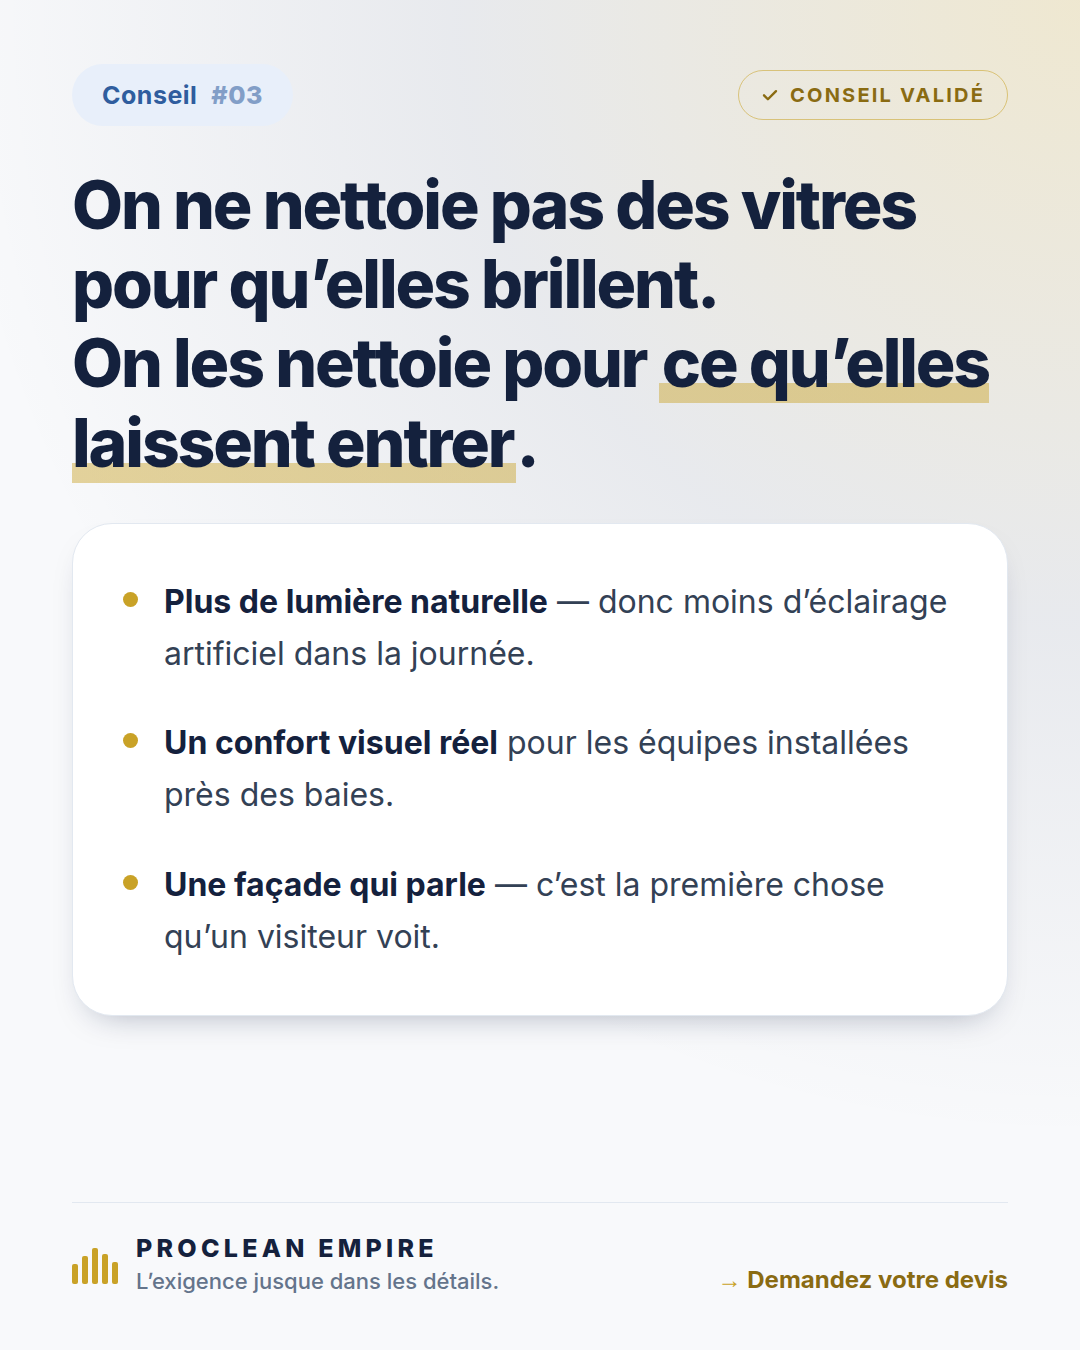
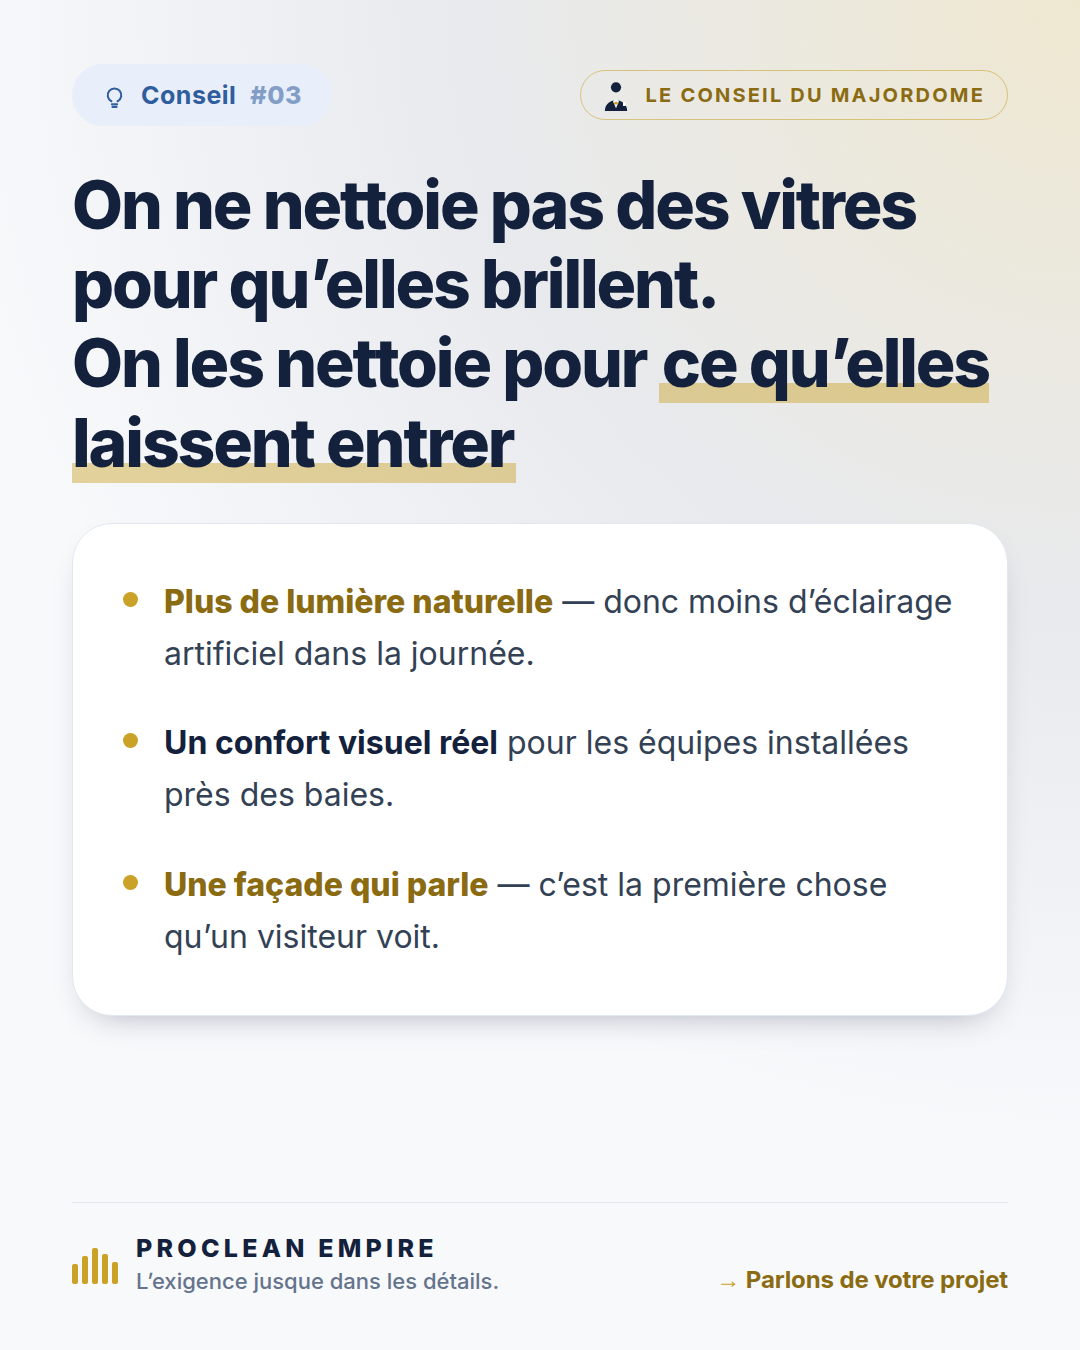
Sign the badge system and add the butler emblem
Badges carry an icon per collection and the seals now read as ProClean
wording rather than generic labels: Le conseil ProClean, Astuce ProClean,
Methode ProClean, Retour client verifie.

CTAs rotate across four wordings so posts stop ending identically, the
lead benefit of a list is set in gold, and display headlines drop their
closing period.

Adds a flat butler emblem - navy bust, white collar, gold bow tie, gloved
hand - drawn from the brand palette and used on the advice posts as
"Le conseil du Majordome".

Icons are tinted SVG rather than emoji so they inherit each collection's
colour instead of introducing unrelated hues.

Claude-Session: https://claude.ai/code/session_01Mxdu93gp3qUqySFn8KFPEm

diff --git a/docs/reseaux-sociaux/visuels/visuels.html b/docs/reseaux-sociaux/visuels/visuels.html
@@ -158,19 +158,57 @@
   #v10 .foot .name { color: #fff; }
   #v10 .foot .base { color: #94a3b8; }
   #v10 .foot .cta { color: var(--gold); }
+
+  .badge .ico { width: 25px; height: 25px; flex: 0 0 auto; }
+  .seal .ico { width: 19px; height: 19px; flex: 0 0 auto; }
+  .seal .butler { width: 34px; height: 34px; flex: 0 0 auto; color: var(--navy); margin: -6px 2px -6px -4px; }
+  .key, #v6 .row .tx b.key, .s p b.key { color: var(--gold-ink); font-weight: 800; }
+  .foot .cta { letter-spacing: -.005em; }
 </style>
 </head>
 <body>
+
+<svg width="0" height="0" style="position:absolute" aria-hidden="true"><defs>
+  <symbol id="i-bulb" viewBox="0 0 24 24" fill="none" stroke="currentColor" stroke-width="2" stroke-linecap="round" stroke-linejoin="round">
+    <path d="M9 17.5a6.5 6.5 0 1 1 6 0"/><path d="M9.5 20.5h5"/><path d="M10 23h4"/>
+  </symbol>
+  <symbol id="i-flask" viewBox="0 0 24 24" fill="none" stroke="currentColor" stroke-width="2" stroke-linecap="round" stroke-linejoin="round">
+    <path d="M9 2v6.5L3.6 18A2.2 2.2 0 0 0 5.5 21.4h13A2.2 2.2 0 0 0 20.4 18L15 8.5V2"/><path d="M7.5 2h9"/><path d="M6.6 14h10.8"/>
+  </symbol>
+  <symbol id="i-star" viewBox="0 0 24 24" fill="currentColor">
+    <path d="M12 2.4l2.9 5.9 6.5.9-4.7 4.6 1.1 6.5-5.8-3-5.8 3 1.1-6.5L2.6 9.2l6.5-.9z"/>
+  </symbol>
+  <symbol id="i-swap" viewBox="0 0 24 24" fill="none" stroke="currentColor" stroke-width="2" stroke-linecap="round" stroke-linejoin="round">
+    <path d="M3 8h14"/><path d="M13.5 4.5L17 8l-3.5 3.5"/><path d="M21 16H7"/><path d="M10.5 12.5L7 16l3.5 3.5"/>
+  </symbol>
+  <symbol id="i-pin" viewBox="0 0 24 24" fill="none" stroke="currentColor" stroke-width="2" stroke-linecap="round" stroke-linejoin="round">
+    <path d="M12 22s7-6.6 7-12A7 7 0 0 0 5 10c0 5.4 7 12 7 12z"/><circle cx="12" cy="10" r="2.6"/>
+  </symbol>
+  <symbol id="i-cam" viewBox="0 0 24 24" fill="none" stroke="currentColor" stroke-width="2" stroke-linecap="round" stroke-linejoin="round">
+    <path d="M3 8.5h11.5A2.5 2.5 0 0 1 17 11v6.5H5.5A2.5 2.5 0 0 1 3 15z"/><path d="M17 12.6l4-2.4v7l-4-2.4z"/>
+  </symbol>
+  <symbol id="i-check" viewBox="0 0 24 24" fill="none" stroke="currentColor" stroke-width="3.2" stroke-linecap="round" stroke-linejoin="round">
+    <path d="M4 12.5l5.2 5.2L20 6.9"/>
+  </symbol>
+
+  <!-- Le Majordome ProClean -->
+  <symbol id="butler" viewBox="0 0 64 64">
+    <circle cx="32" cy="17.5" r="9.6" fill="currentColor"/>
+    <path d="M11 62c0-11.6 9.4-20 21-20s21 8.4 21 20z" fill="currentColor"/>
+    <path d="M26.2 43.4L32 57l5.8-13.6-5.8-3.2z" fill="#ffffff"/>
+    <path d="M32 44.4l-5.1 2.9 5.1 2.9 5.1-2.9z" fill="#c9a227"/>
+    <path d="M45.2 47.6a2.6 2.6 0 1 1 5.2 0v5.2h-5.2z" fill="#ffffff"/>
+  </symbol>
+</defs></svg>
 
 <!-- ================= 1 · LUNDI 08h · CONSEIL 01 ================= -->
 <section class="card p" id="v1">
   <div class="glow"></div>
   <div class="stage">
     <div class="top">
-      <span class="badge conseil">Conseil <span class="num">#01</span></span>
-      <span class="seal"><svg width="18" height="18" viewBox="0 0 24 24" fill="none" stroke="#8a6b12" stroke-width="3.2" stroke-linecap="round" stroke-linejoin="round"><path d="M4 12.5l5.2 5.2L20 6.9"/></svg>Méthode ProClean</span>
-    </div>
-    <h1>Un bureau propre n&rsquo;est pas un détail.<br>C&rsquo;est un <span class="hl">levier</span>.</h1>
+      <span class="badge conseil"><svg class="ico"><use href="#i-bulb"/></svg>Conseil <span class="num">#01</span></span>
+      <span class="seal"><svg class="butler"><use href="#butler"/></svg>Le conseil ProClean</span></div>
+    <h1>Un bureau propre n&rsquo;est pas un détail.<br>C&rsquo;est un <span class="hl">levier</span></h1>
     <div class="panel shot">
       <img src="../../../../../home/user/https-procleanempire-multiservice.manus.space/public/media/photos/hero-showcase.jpg" alt="">
     </div>
@@ -180,7 +218,7 @@
         <svg class="mark" width="46" height="40" viewBox="0 0 46 40" fill="#c9a227"><rect x="0" y="20" width="6" height="20" rx="2"/><rect x="10" y="12" width="6" height="28" rx="2"/><rect x="20" y="4" width="6" height="36" rx="2"/><rect x="30" y="10" width="6" height="30" rx="2"/><rect x="40" y="18" width="6" height="22" rx="2"/></svg>
         <div><div class="name">PROCLEAN EMPIRE</div><div class="base">L&rsquo;exigence jusque dans les détails.</div></div>
       </div>
-      <span class="cta"><i>&rarr;</i> Demandez votre devis</span>
+      <span class="cta"><i>&rarr;</i> Parlons de votre projet</span>
     </div>
   </div>
 </section>
@@ -190,10 +228,9 @@
   <div class="glow"></div>
   <div class="stage">
     <div class="top">
-      <span class="badge preuve">Avant / Après <span class="num">#01</span></span>
-      <span class="seal"><svg width="18" height="18" viewBox="0 0 24 24" fill="none" stroke="#8a6b12" stroke-width="3.2" stroke-linecap="round" stroke-linejoin="round"><path d="M4 12.5l5.2 5.2L20 6.9"/></svg>Méthode ProClean</span>
-    </div>
-    <h1>Le remplacement était envisagé.<br>Il n&rsquo;a pas été nécessaire.</h1>
+      <span class="badge preuve"><svg class="ico"><use href="#i-swap"/></svg>Avant / Après <span class="num">#01</span></span>
+      <span class="seal"><svg class="ico"><use href="#i-check"/></svg>Méthode ProClean</span></div>
+    <h1>Le remplacement était envisagé.<br>Il n&rsquo;a pas été nécessaire</h1>
     <div class="panel shot">
       <div class="half">
         <img src="../../../../../home/user/https-procleanempire-multiservice.manus.space/public/media/photos/cuir-rouge-avant.jpeg" alt="">
@@ -219,9 +256,8 @@
   <div class="glow"></div>
   <div class="stage">
     <div class="top">
-      <span class="badge savoir">Le saviez-vous <span class="num">#01</span></span>
-      <span class="seal"><svg width="18" height="18" viewBox="0 0 24 24" fill="none" stroke="#8a6b12" stroke-width="3.2" stroke-linecap="round" stroke-linejoin="round"><path d="M4 12.5l5.2 5.2L20 6.9"/></svg>Méthode ProClean</span>
-    </div>
+      <span class="badge savoir"><svg class="ico"><use href="#i-flask"/></svg>Le saviez-vous <span class="num">#01</span></span>
+      <span class="seal"><svg class="ico"><use href="#i-check"/></svg>Astuce ProClean</span></div>
     <div class="panel">
       <h1>Le saviez-vous&nbsp;?</h1>
       <div class="dash"></div>
@@ -232,7 +268,7 @@
         <svg class="mark" width="46" height="40" viewBox="0 0 46 40" fill="#c9a227"><rect x="0" y="20" width="6" height="20" rx="2"/><rect x="10" y="12" width="6" height="28" rx="2"/><rect x="20" y="4" width="6" height="36" rx="2"/><rect x="30" y="10" width="6" height="30" rx="2"/><rect x="40" y="18" width="6" height="22" rx="2"/></svg>
         <div><div class="name">PROCLEAN EMPIRE</div><div class="base">L&rsquo;exigence jusque dans les détails.</div></div>
       </div>
-      <span class="cta"><i>&rarr;</i> Voir plus sur notre site</span>
+      <span class="cta"><i>&rarr;</i> Obtenez votre devis en 24 h</span>
     </div>
   </div>
 </section>
@@ -242,9 +278,8 @@
   <div class="glow"></div>
   <div class="stage">
     <div class="top">
-      <span class="badge conseil">Conseil <span class="num">#02</span></span>
-      <span class="seal"><svg width="18" height="18" viewBox="0 0 24 24" fill="none" stroke="#8a6b12" stroke-width="3.2" stroke-linecap="round" stroke-linejoin="round"><path d="M4 12.5l5.2 5.2L20 6.9"/></svg>Conseil validé</span>
-    </div>
+      <span class="badge conseil"><svg class="ico"><use href="#i-bulb"/></svg>Conseil <span class="num">#02</span></span>
+      <span class="seal"><svg class="butler"><use href="#butler"/></svg>Le conseil ProClean</span></div>
     <div class="panel">
       <div class="big">30<em>&nbsp;s</em></div>
       <div class="dash"></div>
@@ -255,7 +290,7 @@
         <svg class="mark" width="46" height="40" viewBox="0 0 46 40" fill="#c9a227"><rect x="0" y="20" width="6" height="20" rx="2"/><rect x="10" y="12" width="6" height="28" rx="2"/><rect x="20" y="4" width="6" height="36" rx="2"/><rect x="30" y="10" width="6" height="30" rx="2"/><rect x="40" y="18" width="6" height="22" rx="2"/></svg>
         <div><div class="name">PROCLEAN EMPIRE</div><div class="base">L&rsquo;exigence jusque dans les détails.</div></div>
       </div>
-      <span class="cta"><i>&rarr;</i> Voir plus sur notre site</span>
+      <span class="cta"><i>&rarr;</i> Contactez un expert ProClean</span>
     </div>
   </div>
 </section>
@@ -265,21 +300,20 @@
   <div class="glow"></div>
   <div class="stage">
     <div class="top">
-      <span class="badge conseil">Conseil <span class="num">#03</span></span>
-      <span class="seal"><svg width="18" height="18" viewBox="0 0 24 24" fill="none" stroke="#8a6b12" stroke-width="3.2" stroke-linecap="round" stroke-linejoin="round"><path d="M4 12.5l5.2 5.2L20 6.9"/></svg>Conseil validé</span>
-    </div>
-    <h1>On ne nettoie pas des vitres pour qu&rsquo;elles brillent.<br>On les nettoie pour <span class="hl">ce qu&rsquo;elles laissent entrer</span>.</h1>
+      <span class="badge conseil"><svg class="ico"><use href="#i-bulb"/></svg>Conseil <span class="num">#03</span></span>
+      <span class="seal"><svg class="butler"><use href="#butler"/></svg>Le conseil du Majordome</span></div>
+    <h1>On ne nettoie pas des vitres pour qu&rsquo;elles brillent.<br>On les nettoie pour <span class="hl">ce qu&rsquo;elles laissent entrer</span></h1>
     <div class="panel list">
-      <div class="row"><span class="dot"></span><span class="tx"><b>Plus de lumière naturelle</b> — donc moins d&rsquo;éclairage artificiel dans la journée.</span></div>
+      <div class="row"><span class="dot"></span><span class="tx"><b class="key">Plus de lumière naturelle</b> — donc moins d&rsquo;éclairage artificiel dans la journée.</span></div>
       <div class="row"><span class="dot"></span><span class="tx"><b>Un confort visuel réel</b> pour les équipes installées près des baies.</span></div>
-      <div class="row"><span class="dot"></span><span class="tx"><b>Une façade qui parle</b> — c&rsquo;est la première chose qu&rsquo;un visiteur voit.</span></div>
+      <div class="row"><span class="dot"></span><span class="tx"><b class="key">Une façade qui parle</b> — c&rsquo;est la première chose qu&rsquo;un visiteur voit.</span></div>
     </div>
     <div class="foot">
       <div class="left">
         <svg class="mark" width="46" height="40" viewBox="0 0 46 40" fill="#c9a227"><rect x="0" y="20" width="6" height="20" rx="2"/><rect x="10" y="12" width="6" height="28" rx="2"/><rect x="20" y="4" width="6" height="36" rx="2"/><rect x="30" y="10" width="6" height="30" rx="2"/><rect x="40" y="18" width="6" height="22" rx="2"/></svg>
         <div><div class="name">PROCLEAN EMPIRE</div><div class="base">L&rsquo;exigence jusque dans les détails.</div></div>
       </div>
-      <span class="cta"><i>&rarr;</i> Demandez votre devis</span>
+      <span class="cta"><i>&rarr;</i> Parlons de votre projet</span>
     </div>
   </div>
 </section>
@@ -289,9 +323,8 @@
   <div class="glow"></div>
   <div class="stage">
     <div class="top">
-      <span class="badge conseil">Conseil <span class="num">#04</span></span>
-      <span class="seal"><svg width="18" height="18" viewBox="0 0 24 24" fill="none" stroke="#8a6b12" stroke-width="3.2" stroke-linecap="round" stroke-linejoin="round"><path d="M4 12.5l5.2 5.2L20 6.9"/></svg>Conseil validé</span>
-    </div>
+      <span class="badge conseil"><svg class="ico"><use href="#i-bulb"/></svg>Conseil <span class="num">#04</span></span>
+      <span class="seal"><svg class="ico"><use href="#i-check"/></svg>Astuce ProClean</span></div>
     <div class="panel">
       <div class="grid">
         <div class="cell"><span class="dot"></span><span class="n">CUIR</span></div>
@@ -299,14 +332,14 @@
         <div class="cell"><span class="dot"></span><span class="n">INOX</span></div>
         <div class="cell"><span class="dot"></span><span class="n">VITRE</span></div>
       </div>
-      <div class="kicker">Une matière = un protocole.</div>
+      <div class="kicker">Une matière = un protocole</div>
     </div>
     <div class="foot">
       <div class="left">
         <svg class="mark" width="46" height="40" viewBox="0 0 46 40" fill="#c9a227"><rect x="0" y="20" width="6" height="20" rx="2"/><rect x="10" y="12" width="6" height="28" rx="2"/><rect x="20" y="4" width="6" height="36" rx="2"/><rect x="30" y="10" width="6" height="30" rx="2"/><rect x="40" y="18" width="6" height="22" rx="2"/></svg>
         <div><div class="name">PROCLEAN EMPIRE</div><div class="base">L&rsquo;exigence jusque dans les détails.</div></div>
       </div>
-      <span class="cta"><i>&rarr;</i> Voir plus sur notre site</span>
+      <span class="cta"><i>&rarr;</i> Obtenez votre devis en 24 h</span>
     </div>
   </div>
 </section>
@@ -316,9 +349,8 @@
   <div class="glow"></div>
   <div class="stage">
     <div class="top">
-      <span class="badge avis">Paroles de clients <span class="num">#01</span></span>
-      <span class="seal"><svg width="18" height="18" viewBox="0 0 24 24" fill="none" stroke="#8a6b12" stroke-width="3.2" stroke-linecap="round" stroke-linejoin="round"><path d="M4 12.5l5.2 5.2L20 6.9"/></svg>Avis vérifié</span>
-    </div>
+      <span class="badge avis"><svg class="ico"><use href="#i-star"/></svg>Paroles de clients <span class="num">#01</span></span>
+      <span class="seal"><svg class="ico"><use href="#i-check"/></svg>Retour client vérifié</span></div>
     <div class="panel">
       <div class="stars">
         <svg width="52" height="52" viewBox="0 0 24 24" fill="#c9a227"><path d="M12 2.4l2.9 5.9 6.5.9-4.7 4.6 1.1 6.5-5.8-3-5.8 3 1.1-6.5L2.6 9.2l6.5-.9z"/></svg>
@@ -337,7 +369,7 @@
         <svg class="mark" width="46" height="40" viewBox="0 0 46 40" fill="#c9a227"><rect x="0" y="20" width="6" height="20" rx="2"/><rect x="10" y="12" width="6" height="28" rx="2"/><rect x="20" y="4" width="6" height="36" rx="2"/><rect x="30" y="10" width="6" height="30" rx="2"/><rect x="40" y="18" width="6" height="22" rx="2"/></svg>
         <div><div class="name">PROCLEAN EMPIRE</div><div class="base">L&rsquo;exigence jusque dans les détails.</div></div>
       </div>
-      <span class="cta"><i>&rarr;</i> Demandez votre devis</span>
+      <span class="cta"><i>&rarr;</i> Contactez un expert ProClean</span>
     </div>
   </div>
 </section>
@@ -347,10 +379,9 @@
   <div class="glow"></div>
   <div class="stage">
     <div class="top">
-      <span class="badge preuve">Réalisation <span class="num">#01</span></span>
-      <span class="seal"><svg width="18" height="18" viewBox="0 0 24 24" fill="none" stroke="#8a6b12" stroke-width="3.2" stroke-linecap="round" stroke-linejoin="round"><path d="M4 12.5l5.2 5.2L20 6.9"/></svg>Méthode ProClean</span>
-    </div>
-    <h1>Ce n&rsquo;est pas une banquette neuve.<br>C&rsquo;est la même.</h1>
+      <span class="badge preuve"><svg class="ico"><use href="#i-pin"/></svg>Réalisation <span class="num">#01</span></span>
+      <span class="seal"><svg class="ico"><use href="#i-check"/></svg>Méthode ProClean</span></div>
+    <h1>Ce n&rsquo;est pas une banquette neuve.<br>C&rsquo;est la même</h1>
     <div class="panel shot">
       <img src="../../../../../home/user/https-procleanempire-multiservice.manus.space/public/media/photos/banquette-arriere-apres.jpeg" alt="">
       <span class="tagimg b">APRÈS</span>
@@ -370,10 +401,9 @@
   <div class="glow"></div>
   <div class="stage">
     <div class="top">
-      <span class="badge preuve">Réalisation <span class="num">#02</span></span>
-      <span class="seal"><svg width="18" height="18" viewBox="0 0 24 24" fill="none" stroke="#8a6b12" stroke-width="3.2" stroke-linecap="round" stroke-linejoin="round"><path d="M4 12.5l5.2 5.2L20 6.9"/></svg>Méthode ProClean</span>
-    </div>
-    <h1>On ne nettoie pas un avion comme une voiture.</h1>
+      <span class="badge preuve"><svg class="ico"><use href="#i-pin"/></svg>Réalisation <span class="num">#02</span></span>
+      <span class="seal"><svg class="ico"><use href="#i-check"/></svg>Méthode ProClean</span></div>
+    <h1>On ne nettoie pas un avion comme une voiture</h1>
     <div class="panel shot">
       <img src="../../../../../home/user/https-procleanempire-multiservice.manus.space/public/media/photos/nettoyage-avion-cessna.jpeg" alt="">
     </div>
@@ -393,19 +423,18 @@
     <div class="shotwrap">
       <img src="../../../../../home/user/https-procleanempire-multiservice.manus.space/public/media/photos/fondateur-proclean-empire.jpeg" alt="">
       <div class="top">
-        <span class="badge coulisses">Les coulisses <span class="num">#01</span></span>
-        <span class="seal"><svg width="18" height="18" viewBox="0 0 24 24" fill="none" stroke="#ffffff" stroke-width="3.2" stroke-linecap="round" stroke-linejoin="round"><path d="M4 12.5l5.2 5.2L20 6.9"/></svg>Méthode ProClean</span>
-      </div>
+        <span class="badge coulisses"><svg class="ico"><use href="#i-cam"/></svg>Les coulisses <span class="num">#01</span></span>
+        <span class="seal"><svg class="ico"><use href="#i-check"/></svg>Méthode ProClean</span></div>
     </div>
     <div class="plate">
-      <h1>Pourquoi j&rsquo;ai créé ProClean Empire.</h1>
+      <h1>Pourquoi j&rsquo;ai créé ProClean Empire</h1>
       <div class="sig">Kevin H. — Fondateur</div>
       <div class="foot">
         <div class="left">
           <svg class="mark" width="46" height="40" viewBox="0 0 46 40" fill="#c9a227"><rect x="0" y="20" width="6" height="20" rx="2"/><rect x="10" y="12" width="6" height="28" rx="2"/><rect x="20" y="4" width="6" height="36" rx="2"/><rect x="30" y="10" width="6" height="30" rx="2"/><rect x="40" y="18" width="6" height="22" rx="2"/></svg>
           <div><div class="name">PROCLEAN EMPIRE</div><div class="base">L&rsquo;exigence jusque dans les détails.</div></div>
         </div>
-        <span class="cta"><i>&rarr;</i> Voir plus sur notre site</span>
+        <span class="cta"><i>&rarr;</i> Parlons de votre projet</span>
       </div>
     </div>
   </div>
